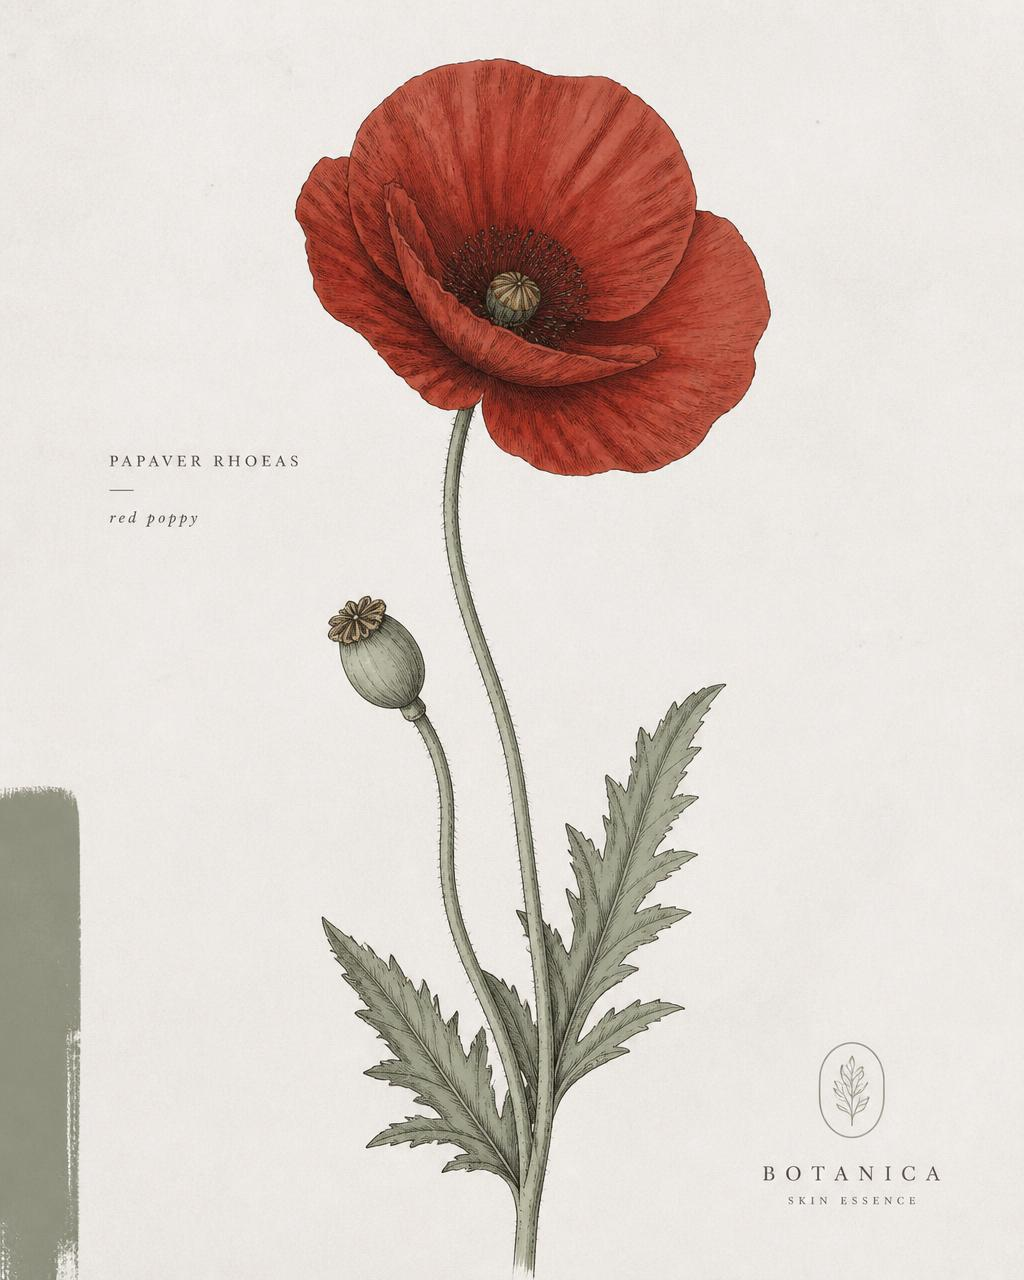
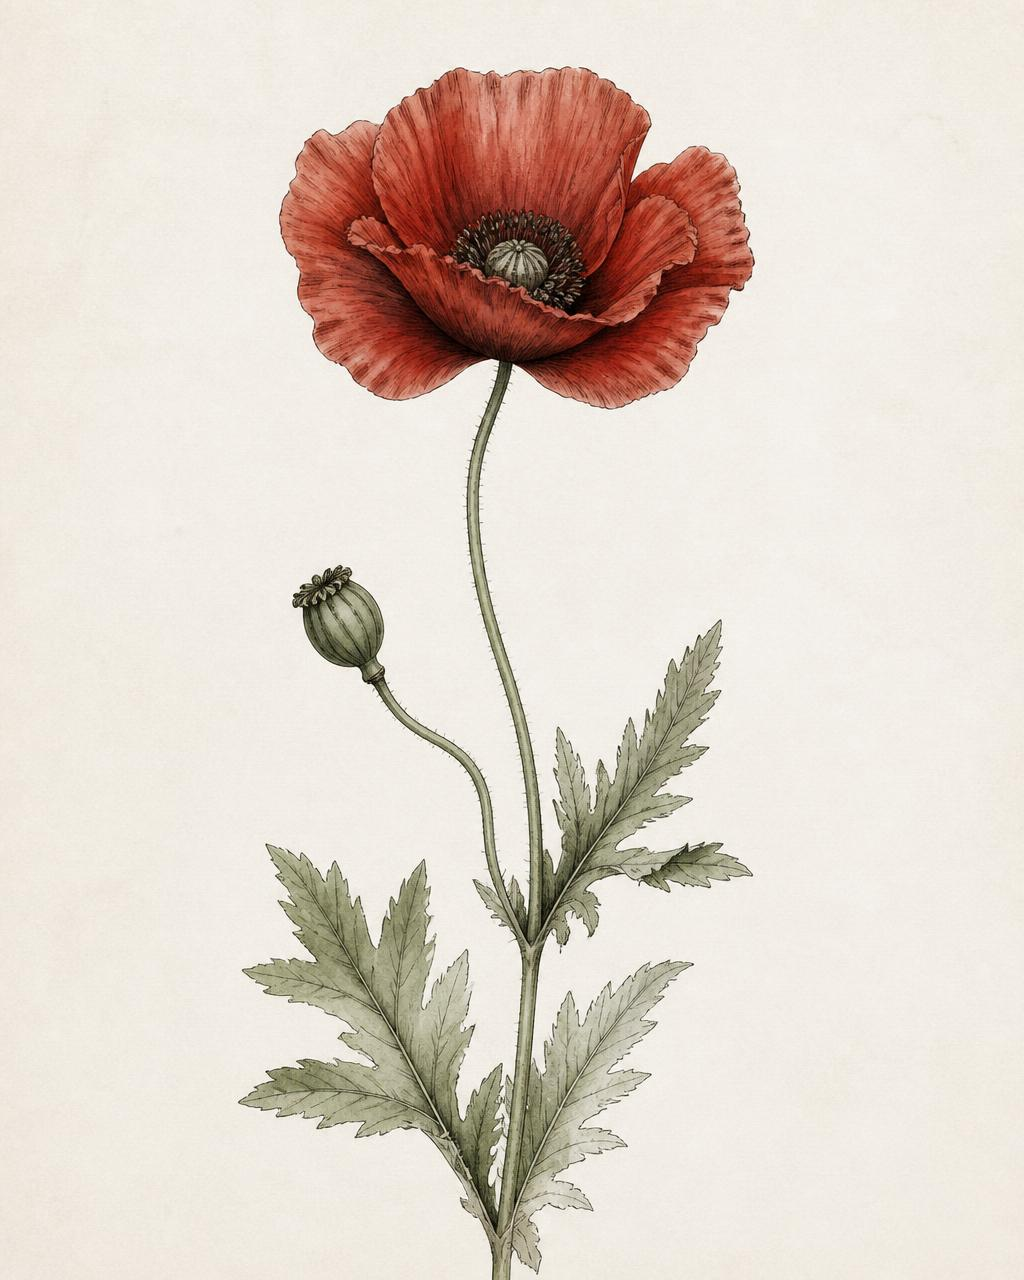
Changes

diff --git a/src/lib/hero-illustrations.ts b/src/lib/hero-illustrations.ts
@@ -1,0 +1,26 @@
+/**
+ * Hero illusztrációk — poppy bloom design rendszer.
+ * Hero szekciók jobb oldalára, a szöveg mellé illeszthető pipacsos grafikák.
+ * Használat: import { HERO_ILLUSTRATIONS } from "@/lib/hero-illustrations";
+ */
+
+import poppyStem from "@/assets/hero/poppy-hero-01.jpg";
+import poppyTrio from "@/assets/hero/poppy-hero-02.jpg";
+import poppyAnatomy from "@/assets/hero/poppy-hero-03.jpg";
+import poppyField from "@/assets/hero/poppy-hero-04.jpg";
+import poppyConcreteCrack from "@/assets/hero/poppy-hero-05.jpg";
+
+export interface HeroIllustration {
+  id: string;
+  title: string;
+  image: string;
+  alt: string;
+}
+
+export const HERO_ILLUSTRATIONS: HeroIllustration[] = [
+  { id: "poppy-stem", title: "Egyszálas pipacs", image: poppyStem, alt: "Botanikus pipacs illusztráció — egyetlen szál, tokkal és levelekkel" },
+  { id: "poppy-trio", title: "Pipacs trió", image: poppyTrio, alt: "Három pipacsvirág íves elrendezésben, zsályazöld levelekkel" },
+  { id: "poppy-anatomy", title: "Pipacs anatómia", image: poppyAnatomy, alt: "Tudományos pipacs tanulmány — szirom keresztmetszet és magtok" },
+  { id: "poppy-field", title: "Pipacsmező", image: poppyField, alt: "Pipacsmező finom vonalrajzban, lágy kör formával a háttérben" },
+  { id: "poppy-concrete", title: "Pipacs a betonban", image: poppyConcreteCrack, alt: "Betonrepedésből kinövő pipacs illusztráció" },
+];
